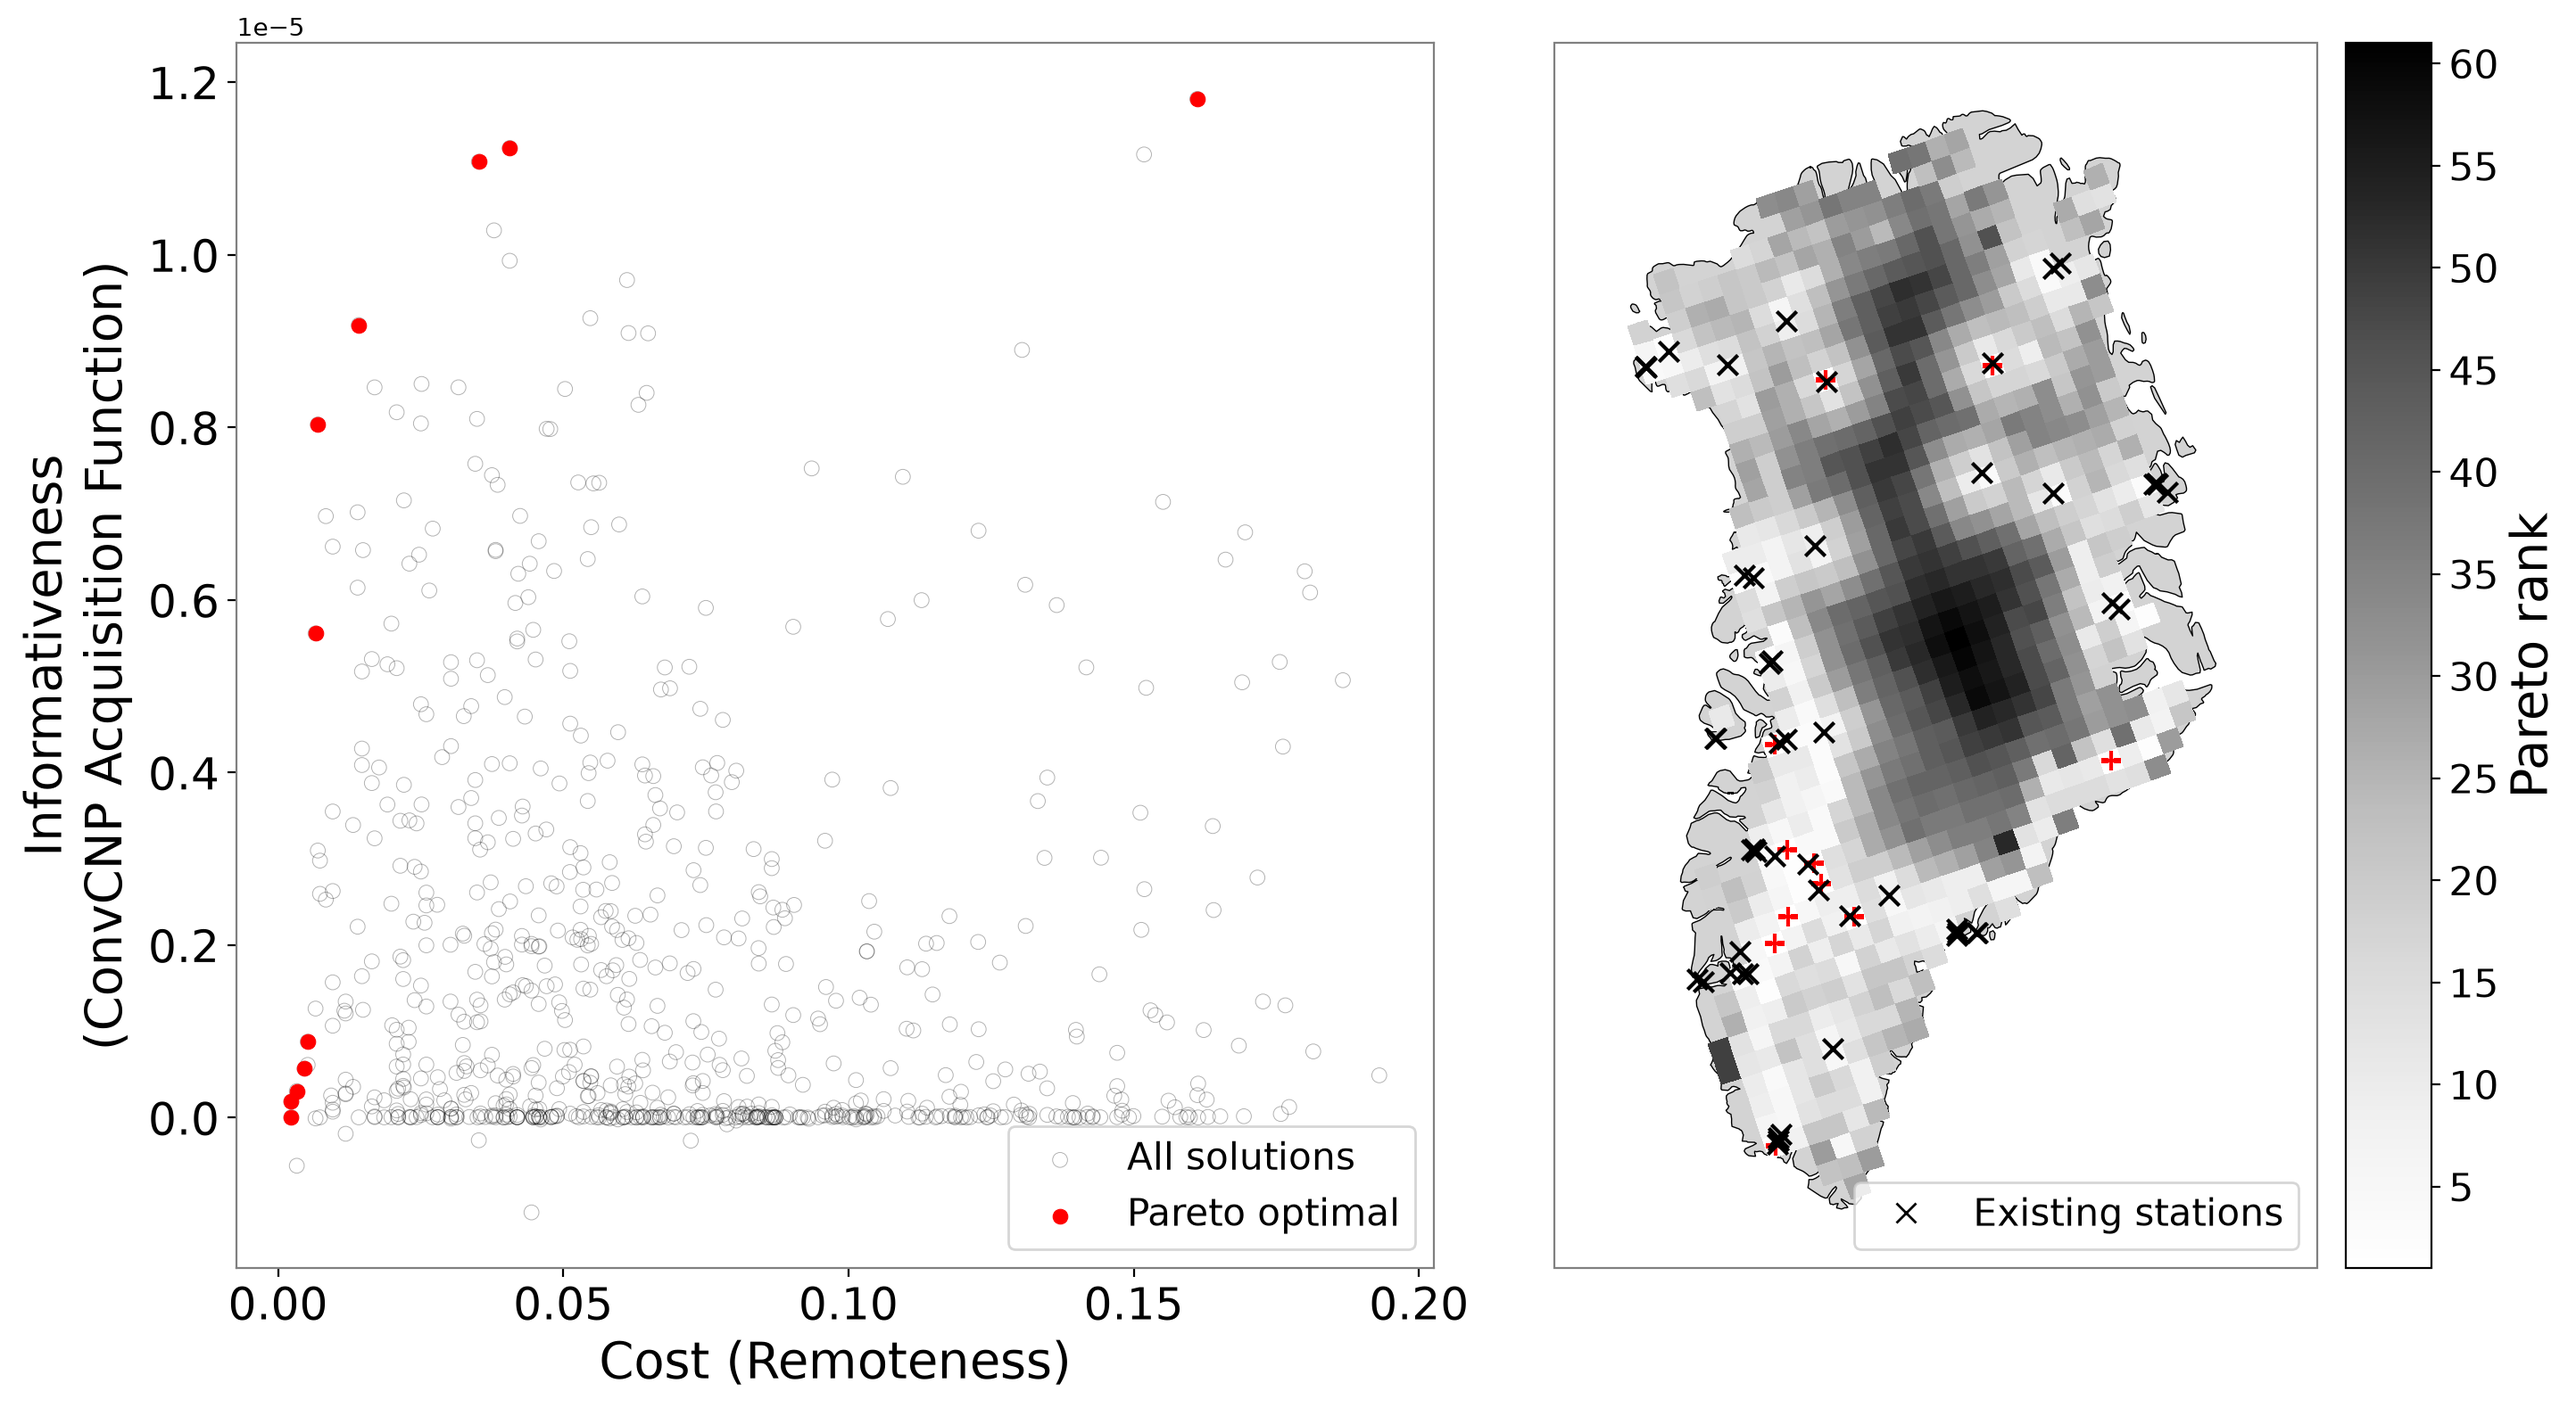
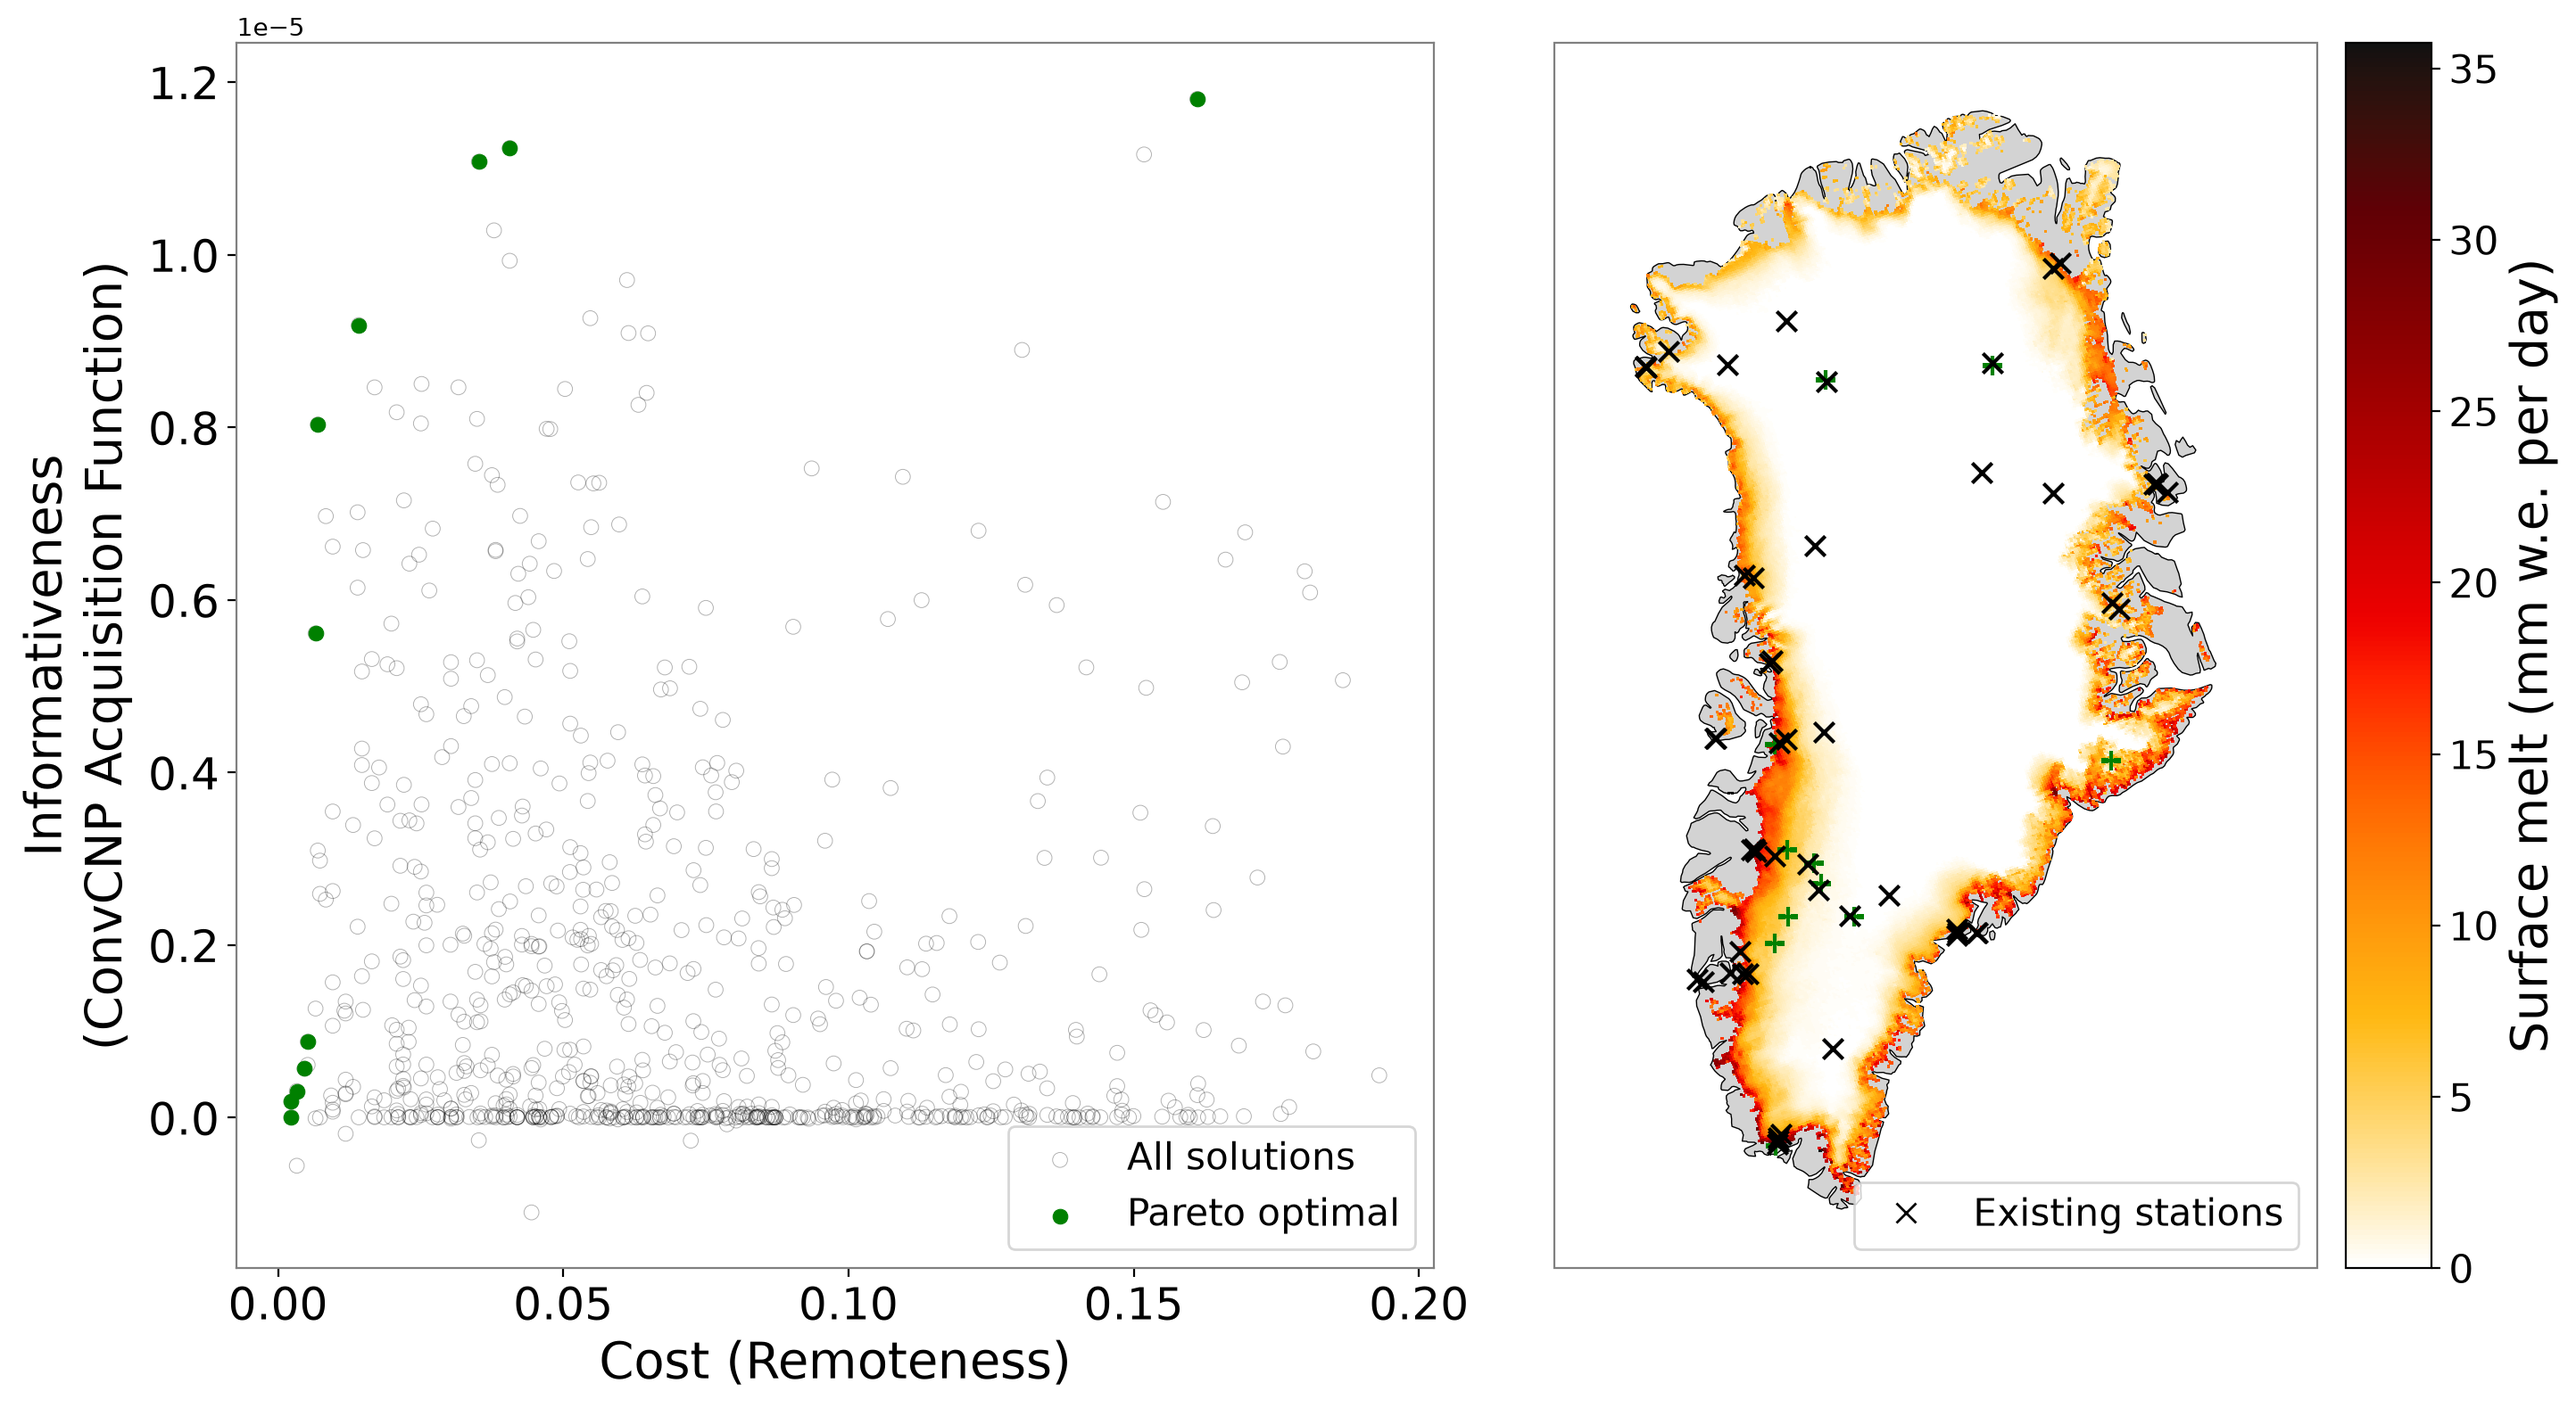
feat: colour Pareto placements green in demo plot
Draw Pareto-optimal points and new placements in green so they stand
out against the surface-melt background, and regenerate the figure.

Changed region(s): [[0.6235, 0.0621, 0.8729, 0.8379], [0.9041, 0.031, 0.9976, 0.8999], [0.0935, 0.7758, 0.1247, 0.8068]]

diff --git a/demo/results/placement_pareto_demo.py b/demo/results/placement_pareto_demo.py
@@ -129,7 +129,7 @@ def plot_result(
         y_pareto[:, 1],
         y_pareto[:, 0] * -1,
         marker="o",
-        color="r",
+        color="green",
         s=6**2,
         linewidths=0.35,
         label="Pareto optimal",
@@ -150,6 +150,8 @@ def plot_result(
     for coll in ax1.collections:
         if isinstance(coll, PathCollection):
             coll.set_sizes([8**2])
+            if coll.get_label() == "New placements":
+                coll.set_color("green")
     for txt in list(ax1.texts):
         txt.remove()
     existing_handle = Line2D(
